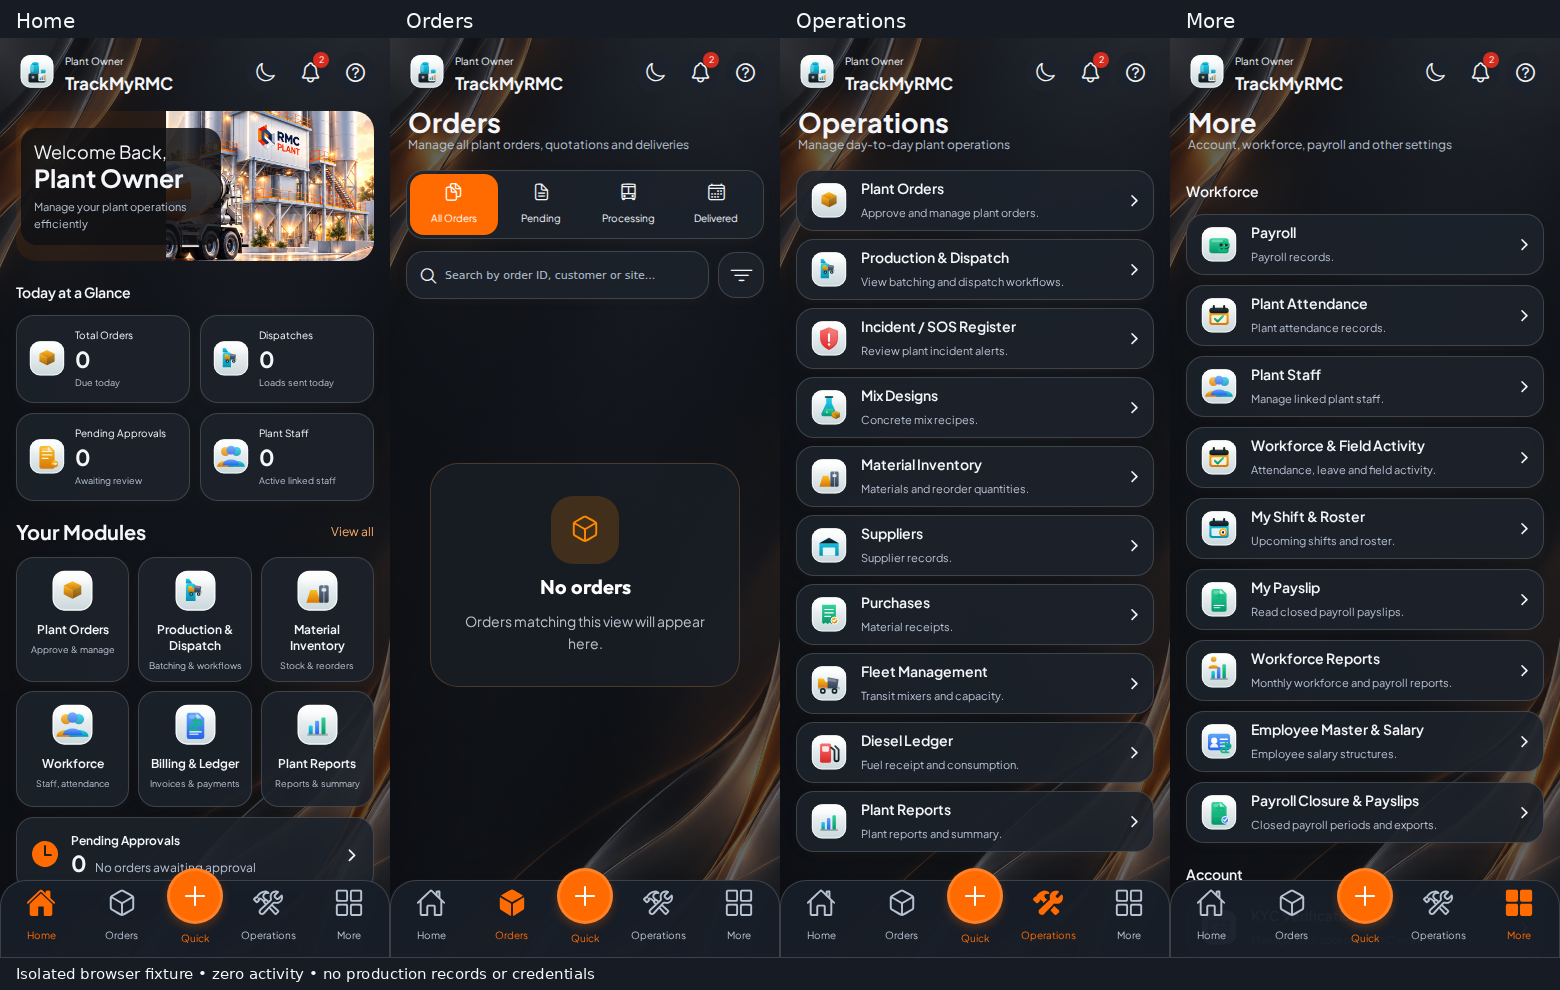
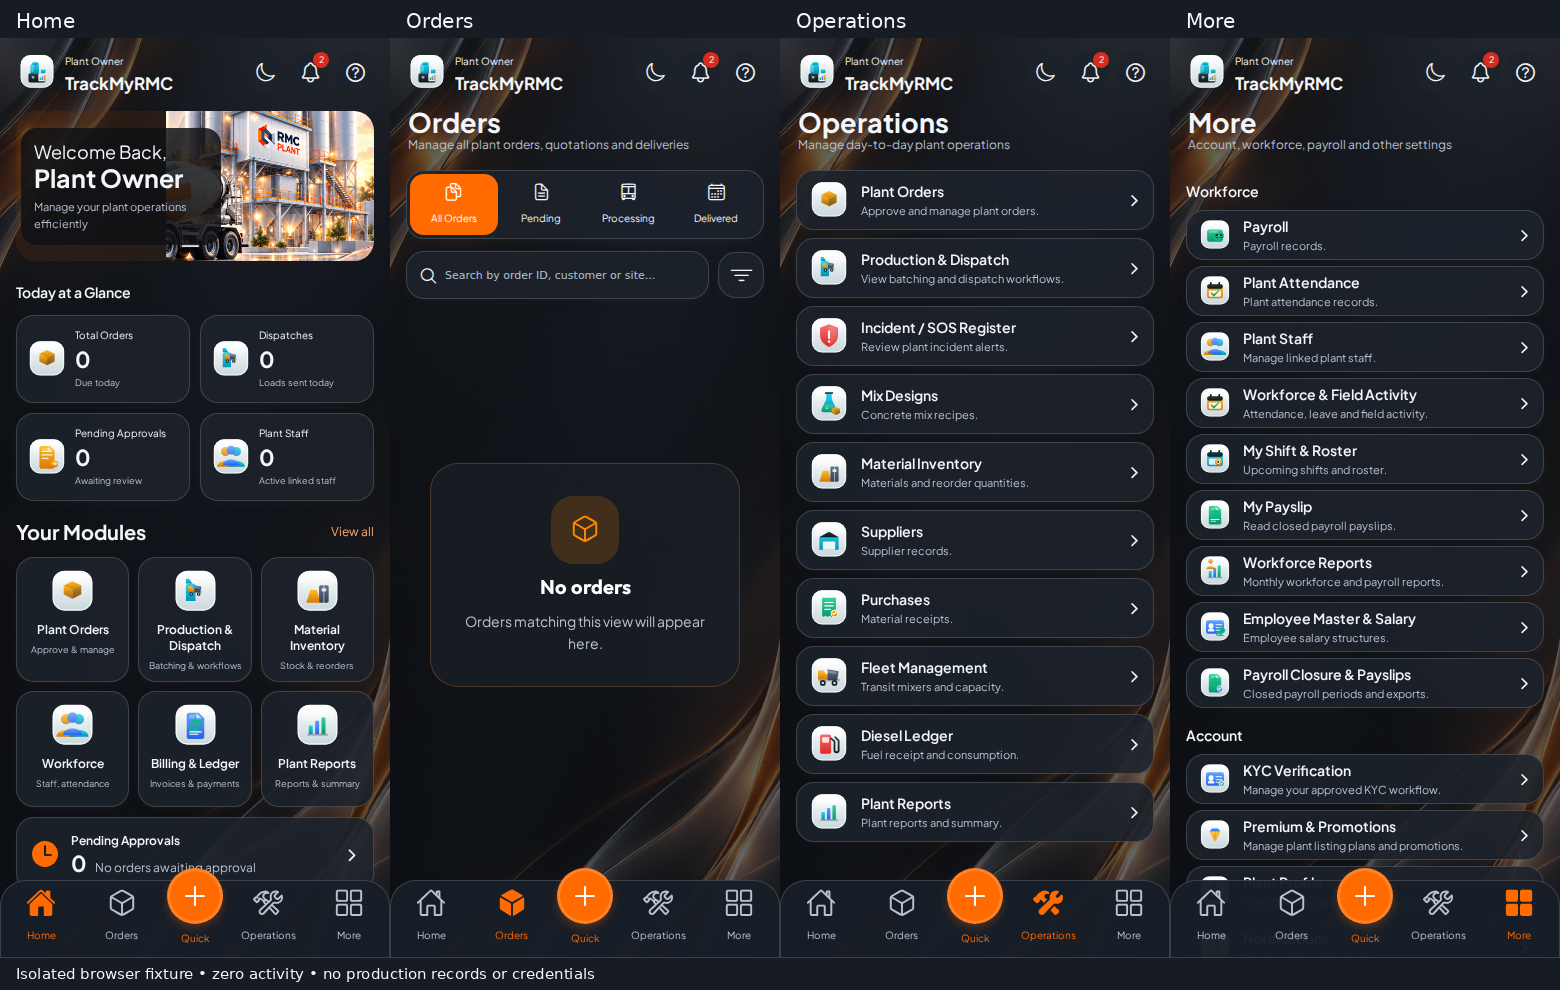
Match compact Workforce and prominent KYC layout to owner reference

diff --git a/frontend/src/owner/OwnerUI.tsx b/frontend/src/owner/OwnerUI.tsx
@@ -54,13 +54,13 @@ export function OwnerList({ children }: { children: React.ReactNode }) {
   const bottom = useOwnerBottomSpace();
   return <ScrollView showsVerticalScrollIndicator={false} contentContainerStyle={[ui.content, { paddingBottom: bottom }]}>{children}</ScrollView>;
 }
-export function OwnerModuleRow({ module }: { module: RoleModule }) {
+export function OwnerModuleRow({ module, compact = false }: { module: RoleModule; compact?: boolean }) {
   const p = useOwnerPalette();
   const router = useRouter();
   return <Pressable testID={`role-module-${module.key}`} accessibilityRole="button" accessibilityLabel={module.label} onPress={() => router.push(ownerDestination(module))} style={({ pressed }) => ({ opacity: pressed ? 0.72 : 1 })}>
-    <OwnerGlass style={ui.moduleRow}>
-      {module.symbol ? <VectorSymbol name={module.symbol} size={44} warmAccent /> : <Ionicons name={module.icon} size={30} color={p.accent} />}
-      <View style={{ flex: 1, minWidth: 0, gap: 3 }}><AppText style={{ fontFamily: fonts.semibold, fontSize: 14, color: p.text }}>{module.label}</AppText><AppText numberOfLines={1} style={{ fontSize: 11, color: p.muted }}>{module.description}</AppText></View>
+    <OwnerGlass style={[ui.moduleRow, compact && { minHeight: 50, paddingVertical: 5 }]}>
+      {module.symbol ? <VectorSymbol name={module.symbol} size={compact ? 36 : 44} warmAccent /> : <Ionicons name={module.icon} size={30} color={p.accent} />}
+      <View style={{ flex: 1, minWidth: 0, gap: 3 }}><AppText style={{ fontFamily: fonts.semibold, fontSize: 14, lineHeight: 18, color: p.text }}>{module.label}</AppText><AppText numberOfLines={1} style={{ fontSize: 11, lineHeight: 15, color: p.muted }}>{module.description}</AppText></View>
       <Ionicons name="chevron-forward" size={17} color={p.text} />
     </OwnerGlass>
   </Pressable>;

diff --git a/frontend/app/owner/more.tsx b/frontend/app/owner/more.tsx
@@ -23,8 +23,8 @@ export default function OwnerMore() {
     { title: "Driver Management", entries: [DRIVER_MODULE] },
   ];
   return <OwnerFrame title={directory === "1" ? "All Plant Modules" : "More"} subtitle="Account, workforce, payroll and other settings">
-    <OwnerList><View testID="role-module-directory" style={{ gap: 10 }}>
-      {groups.map(group => <React.Fragment key={group.title}><AppText style={[ui.section, { color: p.text }]}>{group.title}</AppText>{group.entries.filter(module => available.has(module.key) || module.key === DRIVER_MODULE.key).map(module => <OwnerModuleRow key={module.key} module={module} />)}</React.Fragment>)}
+    <OwnerList><View testID="role-module-directory" style={{ gap: 6 }}>
+      {groups.map(group => <React.Fragment key={group.title}><AppText style={[ui.section, { color: p.text }]}>{group.title}</AppText>{group.entries.filter(module => available.has(module.key) || module.key === DRIVER_MODULE.key).map(module => <OwnerModuleRow key={module.key} module={module} compact />)}</React.Fragment>)}
       <OwnerInsights />
       <AppText style={[ui.section, { color: p.text }]}>Appearance</AppText>
       <OwnerGlass style={{ padding: 12, flexDirection: "row", gap: 8 }}>
